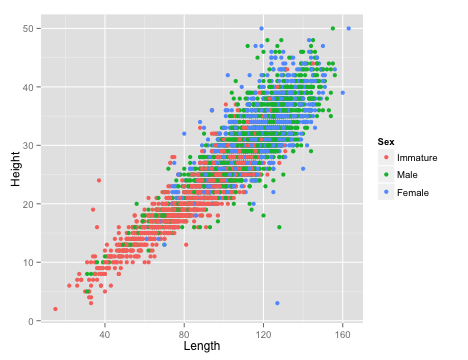
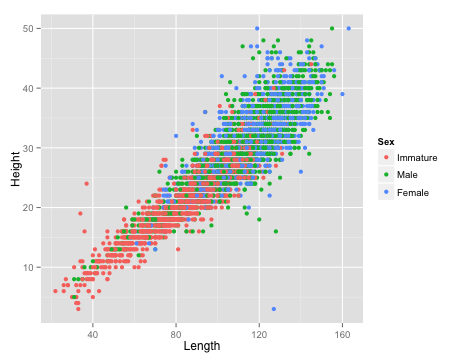
Updates to abalone files.

diff --git a/courses/biolB215s13/abalone_cleaning.md b/courses/biolB215s13/abalone_cleaning.md
@@ -26,7 +26,7 @@ You can find the data in CSV format at the following link: [abalone.csv](abalone
 
 To read the file, we will use the `read.csv()` command[^readtable], and store it in a variable called `abalone`. While we are at it, we'll also load up `plyr`, as it will come in handy later.
 
-[^readtable]: The `read.csv()` function is one of many 
+[^readtable]: The `read.csv()` function is one of many functions in R that are part of the `read.table()` group. All of them read in simple text file tables with individual fields separated in various ways (tabs, spaces, commas, you name it). The base function `read.table()` is quite customizable; you can explore the various options available by looking at the help page in `R`. One particular note is that `R` will read text strings in as factors unless you tell it not to with the argument `stringsAsFactors = FALSE`. For these data, we wanted to leave male and female as factors, but if you have a column of things like sample names or DNA sequences, you might not want to do that. You can always convert a column from text to a factor later, as needed.
 
 
 {% highlight r %}
@@ -39,17 +39,16 @@ abalone <- read.csv("abalone.csv")
 Look at the data. The column names are fairly informative in general, but some are not, so I have defined them below:
 
 Variable | Unit | Description
--------- | ---- | -----------
-Sex | | M (male), F (female), or I (immature)
-Length | mm | longest shell measurement 
-Diam | mm	 | perpendicular to length 
-Height | mm | height of abalone (including body) 
-Whole | grams| weight of whole abalone 
-Shucked | grams | weight of meat 
-Viscera | grams| gut weight
-Shell | grams | shell weight after drying 
-Rings | | Number of rings in the shell 
-
+-------- | :----: | -----------
+`Sex` | | `M` (male), `F` (female), or `I` (immature)
+`Length` | mm | longest shell measurement 
+`Diam` | mm	 | shell measurement perpendicular to length 
+`Height` | mm | height of abalone (including body) 
+`Whole` | g| weight of whole abalone 
+`Shucked` | g | weight of meat 
+`Viscera` | g| gut weight
+`Shell` | g | shell weight after drying 
+`Rings` | | number of rings in the shell 
 
 The abalone add one ring to their shell every year, except in their first year, and we can estimate the age of the abalone quite accurately by adding 1.5 to the number of rings. 
 
@@ -67,7 +66,9 @@ Start by loading the `ggplot2` library and making a histogram of the abalone wei
 
 {% highlight r %}
 library(ggplot2)
-qplot(Whole, data = abalone, geom = "histogram")
+qplot(Whole, 
+      data = abalone, 
+      geom = "histogram")
 {% endhighlight %}
 
 
@@ -85,8 +86,11 @@ Isn't that pretty? Sure, but it might not really be what we are interested in lo
 
 {% highlight r %}
 library(ggplot2)
-qplot(Whole, data = abalone, geom = "histogram", 
-      facets = Sex~., binwidth = 20)
+qplot(Whole, 
+      data = abalone, 
+      geom = "histogram", 
+      facets = Sex~., 
+      binwidth = 20)
 {% endhighlight %}
 
 ![plot of chunk weighthistfacet](plots/abalone_cleaning-weighthistfacet.png) 
@@ -96,8 +100,11 @@ You will note that the labels for each panel are shown on the right side, and th
 
 
 {% highlight r %}
-abalone$Sex <- ordered(abalone$Sex, levels = c("I", "M", "F"), 
+#make Sex and ordered factor
+abalone$Sex <- ordered(abalone$Sex, 
+                       levels = c("I", "M", "F"), 
                        labels = c("Immature", "Male", "Female"))
+#redo the histogram
 {% endhighlight %}
 
 
@@ -105,7 +112,10 @@ We can also use `qplot()` to make boxplots, which may be a bit nicer for this ap
 
 
 {% highlight r %}
-qplot(Sex, Whole, data = abalone, geom = "boxplot", fill = Sex)
+qplot(Sex, Whole, 
+      data = abalone, 
+      geom = "boxplot", 
+      fill = Sex)
 {% endhighlight %}
 
 ![plot of chunk boxplots](plots/abalone_cleaning-boxplots.png) 
@@ -115,7 +125,10 @@ While we are playing around, one more plot... An alternative to the box plot tha
 
 
 {% highlight r %}
-qplot(Sex, Whole, data = abalone, geom = "violin", fill = Sex)
+qplot(Sex, Whole, 
+      data = abalone, 
+      geom = "violin", 
+      fill = Sex)
 {% endhighlight %}
 
 ![plot of chunk violins](plots/abalone_cleaning-violins.png) 
@@ -125,9 +138,10 @@ qplot(Sex, Whole, data = abalone, geom = "violin", fill = Sex)
 Look at all of the continuous variables using your preferred visualization method. You do not need to turn in all of these plots, but use them to answer the questions below.  
 **a.** Describe the shape of the distributions for each variable. Do they appear normal overall (with the sexes combined)? Does separating by Sex make them appear normal?  
 **b.** Are there any values that look particularly strange? What do you think caused those?  
-**Before proceeding, remove any rows from the data frame with obviously bad data.** This should include any rows where a measurement is equal to 0.  
 **c.** Show me your favorite of the plots you generated. Make sure it is well labeled.
-{: .question}}
+{: .question}
+
+**Before proceeding, remove any rows from the data frame with obviously bad data.** This should include any rows where a measurement is equal to 0.  
 
 
 
@@ -147,7 +161,9 @@ Scatter plots in `ggplot` are just as easy as with standard plotting, and possib
 
 
 {% highlight r %}
-qplot(Whole, Shucked, data = abalone, color = Sex)
+qplot(Whole, Shucked, 
+      data = abalone, 
+      color = Sex)
 {% endhighlight %}
 
 ![plot of chunk simplescatter](plots/abalone_cleaning-simplescatter.png) 
@@ -158,8 +174,10 @@ That looks pretty nice, but do you notice anything strange about the data in the
 
 
 {% highlight r %}
-qplot(Whole, Shucked, data = abalone, color = Sex) +
-      geom_abline(slope = 1)
+qplot(Whole, Shucked, 
+      data = abalone, 
+      color = Sex) +
+  geom_abline(slope = 1)
 {% endhighlight %}
 
 ![plot of chunk scatter_ref](plots/abalone_cleaning-scatter_ref.png) 
@@ -177,19 +195,22 @@ abalone <- subset(abalone, Whole > Shucked)
 The shell weight of the abalone is measured after drying, wheras the whole weight and shucked weight are measured wet. We can calculate the wet weight of the shell then, by subtracting the shucked weight from the total. This should be greater than or equal to the dry shell weight in the data.  
 **a.** Calculate the predicted wet shell weight, and make a scatter plot showing the relationship between that and the dry shell weight.  
 **b.** Does the plot follow the standard mentioned above (shell wet weight greater than shell dry weight), in general? How many samples seem to have been measured incorrectly by the standard mentioned above? Include only those samples that are clearly wrong, not the ones that just seem a bit off.  
+{: .question}
+
 **Before proceeding, remove the samples that are clearly erroneous.**  
 
-``{r morecleaning, echo=FALSE, include=FALSE}
-abalone <- subset(abalone, Whole - Shucked >= Shell)
-```
 
-If you did everything as I did, you should now have an abalone data frame with 4169 rows. Also, if you make a new version of the Whole vs. Shucked plot, you will should see that most of the dodgy points are now gone. 
+
+
+If you did everything as I did, you should now have an abalone data frame with 4158 rows. Also, if you make a new version of the Whole vs. Shucked plot, you will should see that most of the dodgy points are now gone. 
 
 There is one more obviously bad point I want to get rid of, which you can see in the plot below. The Female with a Height of 3 mm and a Length of 127 mm. So we will get rid of that row too.
 
 
 {% highlight r %}
-qplot(Length , Height, data = abalone, color = Sex)
+qplot(Length, Height, 
+      data = abalone, 
+      color = Sex)
 {% endhighlight %}
 
 ![plot of chunk shortfemale](plots/abalone_cleaning-shortfemale.png) 
@@ -205,7 +226,7 @@ A few quick questions about that plot of length and height that you just made. F
 **c.** What is the coefficient of determination ($$r^2$$)?  
 **d.** Do the data meet the strict assumptions of correlation tests or linear regression? In particular, do the data appear homoscedastic?  
 
-So now, finally, you should have an abalone data frame with 4168 rows. Remember how I said that dealing with bad data was a big part of the job? Exactly.
+So now, finally, you should have an abalone data frame with 4157 rows. Remember how I said that dealing with bad data was a big part of the job? Exactly.
 
 If you made it to here, congratulations. Take a break. We will come back to this data next week. Just one more thing. Save your work. You don't want to have to do all this again, do you? You should have an R or Rmarkdown document with all of the (working) commands that you have run so far (you were keeping a record of your work, right?). Add to that one more command:
 
